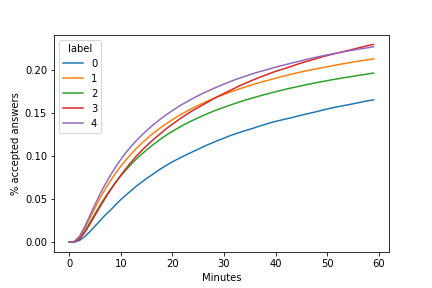
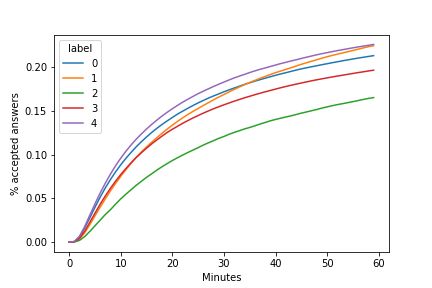
Updated Final Report

diff --git a/Capstone_Project/doc/Capstone_Project_StackOverflow_Report.md b/Capstone_Project/doc/Capstone_Project_StackOverflow_Report.md
@@ -144,40 +144,54 @@ First, I tried to running a clustering model only using features we extracted fr
 
 After pre-processing those features with scaling and PCA, a Kmean model was fitted, with n_clusters = 5, when we observe inertia descreased much slower for more than 5 clusters.
 
-
-| label | size | paragraph_count | code_count | pre_count | img_count | href_count | title_count | is_question | is_thankful |
-|-------|------|-----------------|------------|-----------|-----------|------------|-------------|-------------|-------------|
-| 0 | 101,812 | 7.32 | 2.34 | 1.17 | 1.84 | 2.64 | 6.54 | 0.32 | 0.33 |
-| 1 | 847,731 | 3.5 | 1.83 | 1.09 | 0.06 | 0.21 | 5.75 | 0.0 | 0.0 |
-| 2 | 578,392 | 4.29 | 1.64 | 1.09 | 0.07 | 0.22 | 6.33 | 0.32 | 1.0 |
-| 3 | 299,060 | 8.41 | 7.32 | 3.7 | 0.06 | 0.32 | 6.45 | 0.25 | 0.3 |
-| 4 | 498,302 | 3.29 | 1.83 | 0.98 | 0.06 | 0.21 | 7.18 | 1.0 | 0.0 |
-
+| label | size |  paragraph_count | code_count | pre_count | tag_count | img_count | href_count | title_count | is_question | is_thankful |
+|-------|------|-----------------|------------|-----------|-----------|-----------|------------|-------------|-------------|-------------|
+| 0 | 839,588 | 3.44 | 1.8 | 1.09 | 6.91 | 0.06 | 0.2 | 5.75 | 0.0 | 0.0 |
+| 1 | 330,486 | 8.48 | 7.1 | 3.47 | 21.49 | 0.06 | 0.34 | 6.47 | 0.27 | 0.31 |
+| 2 |  99,203 | 7.28 | 2.25 | 1.15 | 12.33 | 1.86 | 2.64 | 6.54 | 0.32 | 0.33 |
+| 3 | 565,753 | 4.17 | 1.59 | 1.08 | 7.49 | 0.07 | 0.22 | 6.31 | 0.31 | 1.0 |
+| 4 | 490,267 | 3.21 | 1.75 | 0.96 | 6.48 | 0.06 | 0.21 | 7.18 | 1.0 | 0.01 |
 
 By checking mean values for each feature, we can get an idea of different styles of question posting:  
 
-   - Level 0. wordy questions with a lot paragraphs and code chunks.  
-   - Level 1. questions with narritive title and no thankful words.  
-   - Level 2. questions with question title and no thankful words.  
-   - Level 3. wordy questions with a lot paragraphs, less code chunks but more images and external links.  
-   - Level 4. questions with good manner words.  
+- Cluster 0. questions with statement title and no thankful words.  
+- Cluster 1. wordy questions with a lot paragraphs and code chunks.  
+- Cluster 2. wordy questions with a lot paragraphs, less code chunks but more images and external links.  
+- Cluster 3. questions with thankful workds.  
+- Cluster 4. questions with question title and no thankful words.  
 
 ![cluster1](./plt/cluster1.png)
 ![cluster2](./plt/cluster2.png)
 
-Looking at time to first accepted answer, Level 0 category has different trend comparing with others. It takes a while to get a quality answer, but after 45 minute mark, it will be the most likely to get answered.  
-
-Other categories has approximately the same shape of the curve, but different proportion of getting an answer, with Level 2 questions at the top, followed by Level 1 and Level 4. Level 3 is the least likely category.  
-
-Comparing 1 to 2, it is more appreciated if the title is a question not a statement. Comparing 1,2 with 4, we got the feeling that it's actually unnecessary to be 'polite'. To me this is counter-intuitive, no one hates good manners.  
+Cluster 0 and Cluster 4 is comparible. It seems using question title will be helpful increasing the chance to get an quality answer. However both groups doing better than cluster 3.  
 
 This implies we missed some important features that confounded the result. For example, less-experienced programmers might be less confident in their narritive to the questions, and being extremely polite. That's how we might observe the negative association between being polite and question being bad, but it's not causal, and the real cause is less-experienced users.  
 
-Finally, when we look at Level 3, if a lot images and hyperlinks are added to a post, it actually does damage and less likely to get an answer. However, if we extend the time window to one day, Level 3 question will get more answers. It could be those questions are usually full of information, and takes longer to get an good answer, but there is nothing wrong with the question itself.
+Cluster 1 and 2 has the same pattern: while they might not have caught most attention within the first hour, they got more answers later on and growing even faster than other clusters. The could due to readability of those long posts. The difference is that cluster 1 got much more questions answered than cluster 2, meaning that plots and links are not as helpful as having more code chunks. 
 
 #### Classification Model
-(Still working on it)
-Logistic Regression with AUC only .68... But i see improvement on a more complicated model, like randomForest, still testing on it
+
+To further investigate the association between features in predicting time to answers, we build a classfication model and trying to predict how likely a question might receive a quality answer within a day.  
+
+After trying a handful of models without careful parameter tuning, I pick logistic regression as the final model. It performs equivalently well comparing to other models, and usually it's more explanatory with coefficients.  
+
+Final model was using sklearn.linear_model.SGDClassifier tuning on alpha, l1_ratio. The performance score used is weighted average f1 score so the model can get a balance of predicting positive and negative cases. 5-folds cross-validation were performed on 70% of data.
+
+Here is the performance of final model on the test set.
+
+| Final Model | Average F1 | Accuracy | ROC_AUC |
+|-------------|------------|----------|---------|
+| {'alpha': 0.001, 'l1_ratio': 1}	 | 0.617 | 0.61 | 0.61 |
+
+Frankly, this is not a model with great performance. We can still read into it and get some insights. Take a look at coefficients.
+
+![coef1](./plt/coef1.png)
+![coef2](./plt/coef2.png)
+
+For the derived features from text, we can see it's good to have more code chunks, pre-formatting and imagies, and it's not suggeted to have too many paragraphs or too many external links. It is good to state you question as an actual question, not in a statement. It doesn't matter that much when it was posted. 
+
+The coefficient by tags are actually varying quite much. So questions in different topic area definitely have different levels of popularity.
+
 
 ### Conclusions
 #### Main Findings
@@ -187,3 +201,4 @@ Logistic Regression with AUC only .68... But i see improvement on a more complic
 
 - NLP on Text Data, Topic Analysis;
 - Find better features for prediction model;
+- Readability
